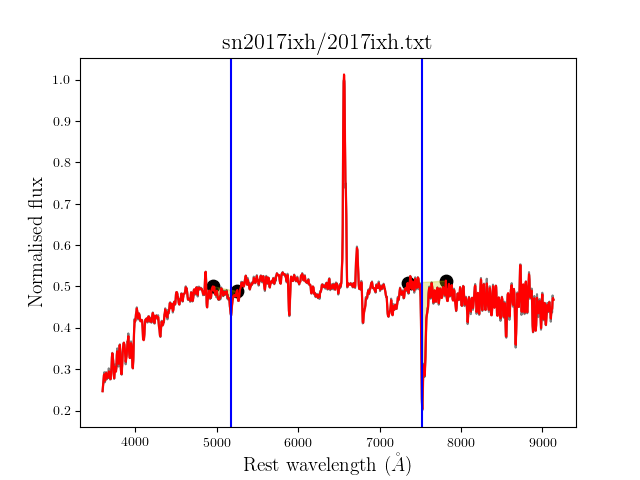
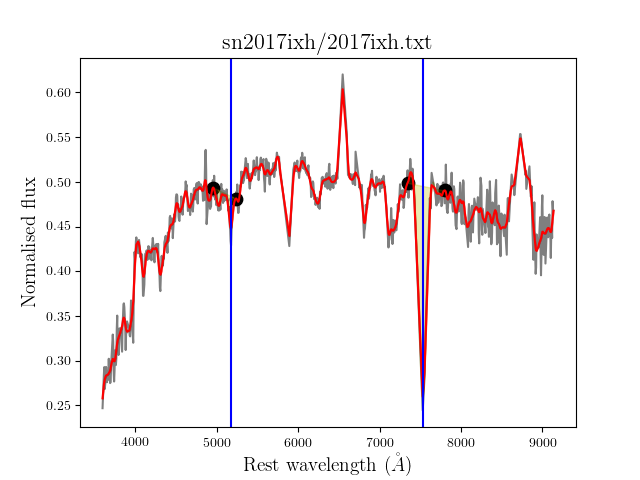
Updated example

diff --git a/example/example.py b/example/example.py
@@ -13,17 +13,20 @@ plt.ioff()
 # Just a test case with type Ia SN sn2006mo from the CfA sample.
 filename_Ia = 'sn2006mo/sn2006mo-20061113.21-fast.flm'
 z = 0.0459
-pew, pew_err, vel, vel_err = spextractor.process_spectra(filename_Ia, z, downsampling=3, plot=True, type='Ia')
+pew, pew_err, vel, vel_err, gp_model = spextractor.process_spectra(filename_Ia, z, downsampling=3, plot=True, type='Ia',sigma_outliers=3)
 
 # velocities are given in 10**3 km/s and pEW in Å
 print(pew, pew_err, vel, vel_err)
+print(gp_model.kern)
 
+plt.show()
 plt.savefig('Ia_example.png')
+
 
 # Test case with a type Ib
 filename_Ib = 'tns_2018_aqf/tns_2018aqf_2018-04-10.0_P200_DBSP_ZTF.txt'
 z = 0.033
-pew, pew_err, vel, vel_err = spextractor.process_spectra(filename_Ib, z, downsampling=3, plot=True, type='Ib')
+pew, pew_err, vel, vel_err = spextractor.process_spectra(filename_Ib, z, downsampling=3, plot=True, type='Ib',sigma_outliers=3)
 # velocities are given in 10**3 km/s and pEW in Å
 print(pew, pew_err, vel, vel_err)
 plt.savefig('Ib_example.png')
@@ -31,7 +34,7 @@ plt.savefig('Ib_example.png')
 
 filename_Ic = 'sn2017ixh/2017ixh.txt'
 z = 0.011
-pew, pew_err, vel, vel_err = spextractor.process_spectra(filename_Ic, z, plot=True, type='Ic')
+pew, pew_err, vel, vel_err = spextractor.process_spectra(filename_Ic, z, plot=True, type='Ic',sigma_outliers=3)
 # velocities are given in 10**3 km/s and pEW in Å
 print(pew, pew_err, vel, vel_err)
 plt.savefig('Ic_example.png')
